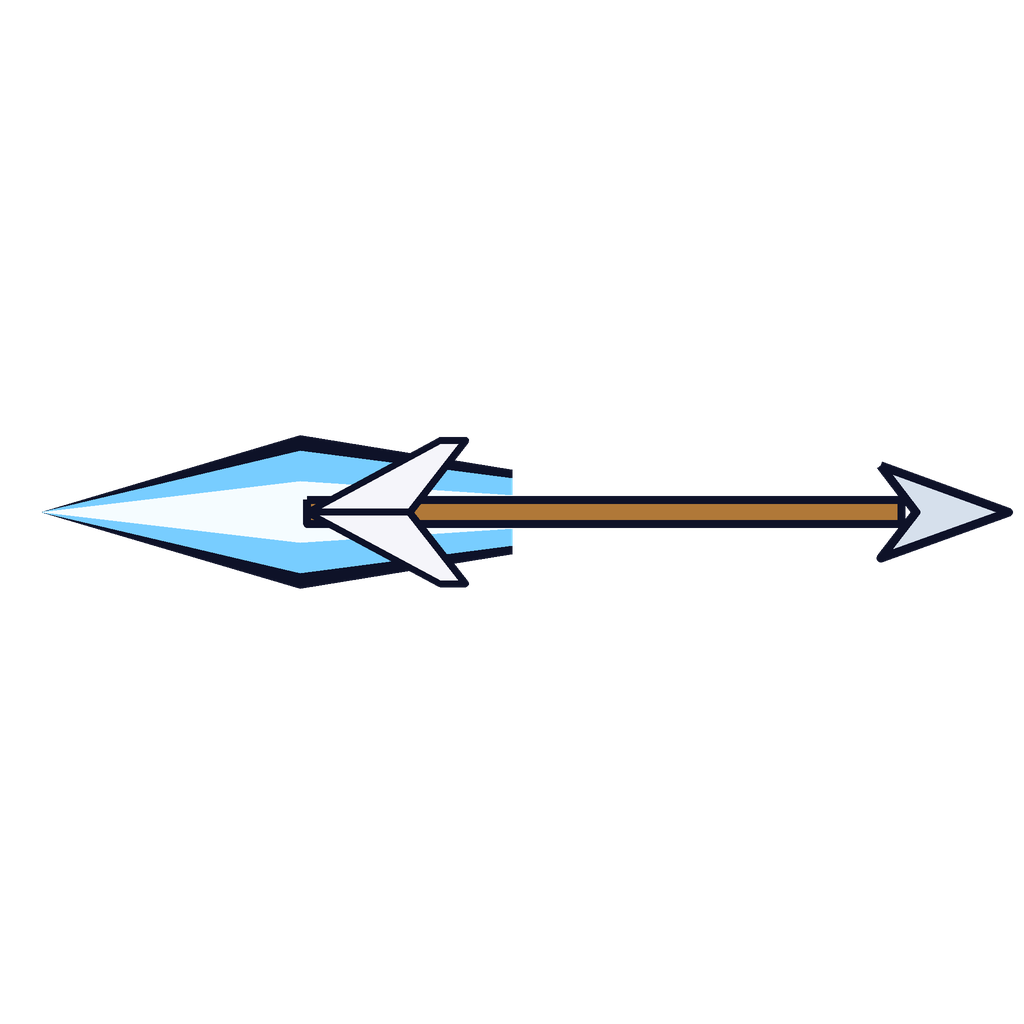
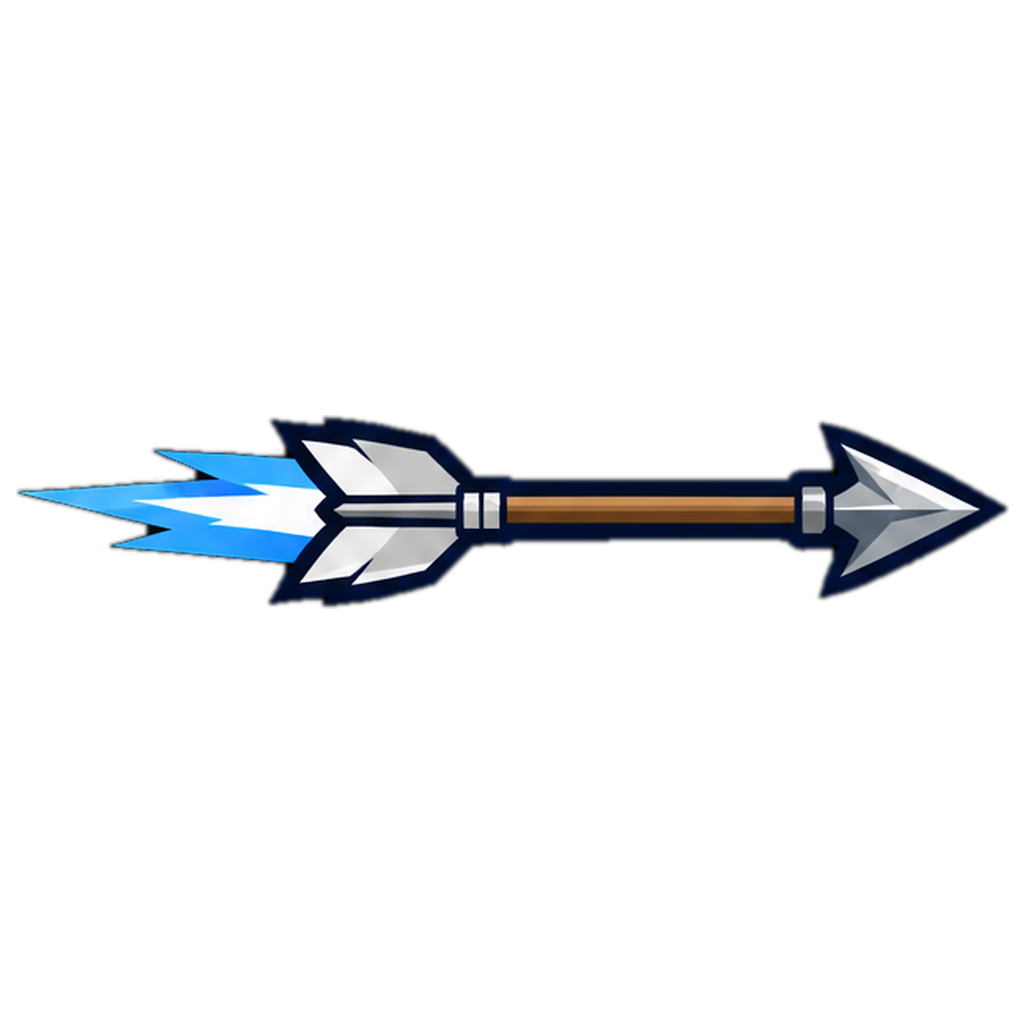
feat(vfx): one flat cartoon style for all arrow projectiles, no more trail ripple
Long bow, celestial bow, repeating crossbow, heavy crossbow and javelins share one AI-generated sheet
(tools/art/bake_arrows.py): dark navy outline, flat colors, one short trail behind, nothing around the shot.
Shader trail ripple removed (the distortion on the fire staff). Replaces the earlier hand-drawn arrow attempt.

Claude-Session: https://claude.ai/code/session_01LtYADxbd84PVKV1bvjrnNH

Changed region(s): [[0.0, 0.4062, 1.0, 0.5938]]

diff --git a/tools/art/bake_arrows.py b/tools/art/bake_arrows.py
@@ -1,0 +1,44 @@
+"""Cuts the arrow sheet (art_tests/proj/arrows_flat_1.png: 3 columns x 2 rows, flat cartoon style, a short trail behind
+each shot) into the five projectile cells that tools/art/bake_map.gd packs into assets/sprites/projectiles.png.
+Each shot is scaled to fill the width of its 1024 px cell, head at the right edge, on the horizontal axis.
+Usage: python tools/art/bake_arrows.py, then powershell tools/bake_sprites.ps1"""
+import sys
+from pathlib import Path
+
+from PIL import Image
+
+sys.path.insert(0, str(Path(__file__).resolve().parent))
+from bake_proj import OUTS, key_solid  # noqa: E402
+
+ROOT = Path(__file__).resolve().parents[2]
+SHEET = ROOT / "art_tests/proj/arrows_flat_1.png"
+CELL = 1024
+FILL = 0.97  # share of the cell width the shot covers
+# (column, row) -> cell file
+CELLS = {
+    (0, 0): "10_arrow",       # Arc long
+    (1, 0): "22_star_arrow",  # Arc céleste
+    (2, 0): "03_bullet",      # Arbalète à répétition
+    (0, 1): "04_missile",     # Arbalète lourde
+    (1, 1): "12_javelin",     # Javelot
+}
+
+
+def main() -> None:
+    sheet = Image.open(SHEET).convert("RGB")
+    width, height = sheet.width // 3, sheet.height // 2
+    for (column, row), name in CELLS.items():
+        part = key_solid(sheet.crop((column * width, row * height, (column + 1) * width, (row + 1) * height)))
+        box = part.getchannel("A").point(lambda v: 255 if v > 24 else 0).getbbox()
+        shot = part.crop(box)
+        scale = min(CELL * FILL / shot.width, CELL * 0.9 / shot.height)
+        shot = shot.resize((round(shot.width * scale), round(shot.height * scale)), Image.LANCZOS)
+        cell = Image.new("RGBA", (CELL, CELL), (0, 0, 0, 0))
+        cell.alpha_composite(shot, (round(CELL * (0.5 + FILL / 2)) - shot.width, (CELL - shot.height) // 2))
+        for out in OUTS:
+            cell.save(out / (name + ".png"))
+        print("cell", name, shot.size)
+
+
+if __name__ == "__main__":
+    main()
